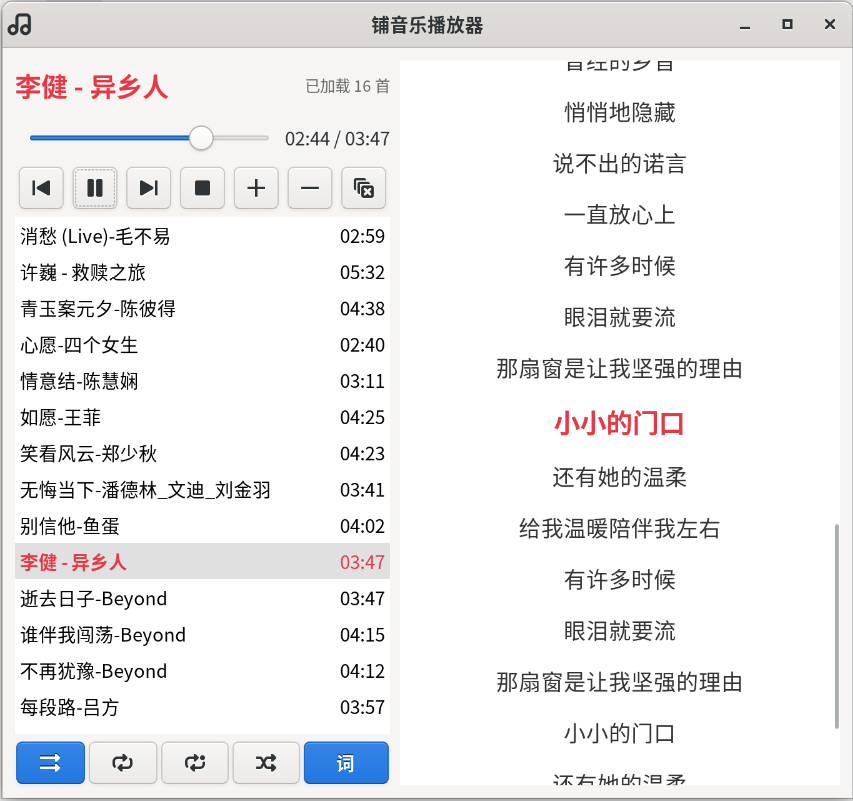
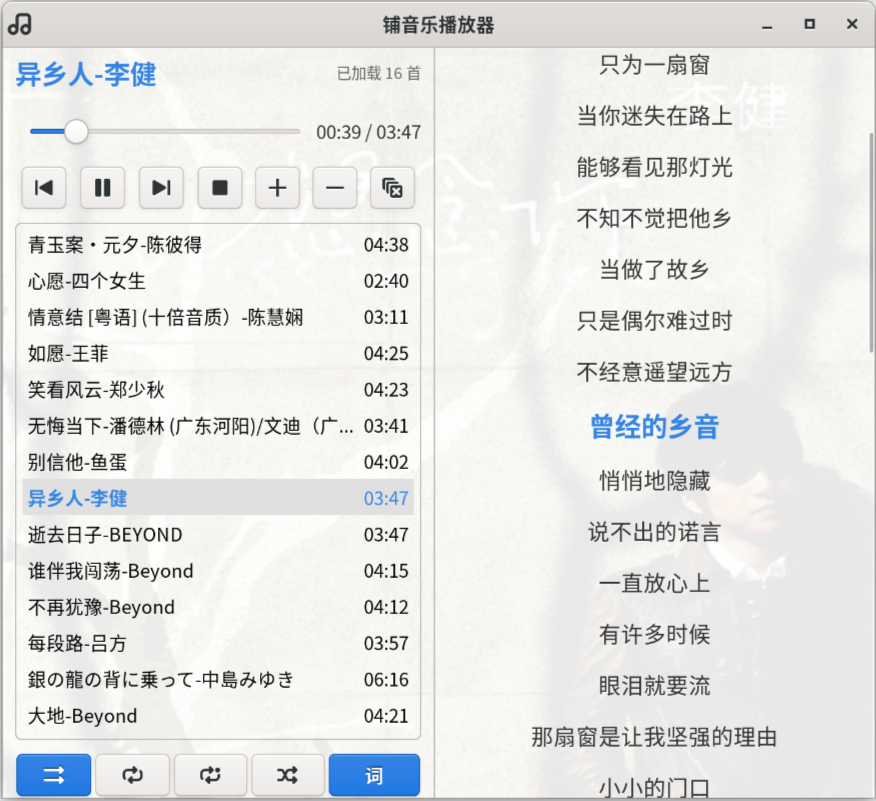
更改获取歌曲名称的方法

diff --git a/PooMusic.py b/PooMusic.py
@@ -434,8 +434,6 @@ class MusicPlayer(Gtk.Window):
             # 退出随机模式时恢复原始列表
             self.random_playlist = []
             self.random_index = -1
-            
-        print(f"切换播放模式: {self.mode_labels[self.play_mode]}")
 
     # 底部按钮样式
     def update_buttons_style(self, widget):
@@ -553,13 +551,19 @@ class MusicPlayer(Gtk.Window):
                 if file_path.suffix.lower() in audio_extensions:
                     audio_files.append(str(file_path))
             for file_path in audio_files:
-                song_name = os.path.splitext(os.path.basename(file_path))[0]
+                # song_name = os.path.splitext(os.path.basename(file_path))[0]
+                audio = File(file_path)
+                song_name = audio['title'][0] + "-" + audio['artist'][0]
+                max_length = 20
+                if len(song_name) > max_length:
+                    song_name = song_name[:max_length] + "..."
+                else:
+                    song_name = song_name
                 duration_sec = self.get_song_duration_fast(file_path)
                 GLib.idle_add(self.add_song_to_playlist, (file_path, song_name, duration_sec))
                 song_count += 1
         GLib.idle_add(self.loading_label.set_markup, 
                      f'<span size="small" color="#666666">已加载 {song_count} 首</span>')
-        print(f"加载完成：共 {song_count} 首歌曲")
 
     def update_lrc_display(self):
         """更新歌词显示"""
